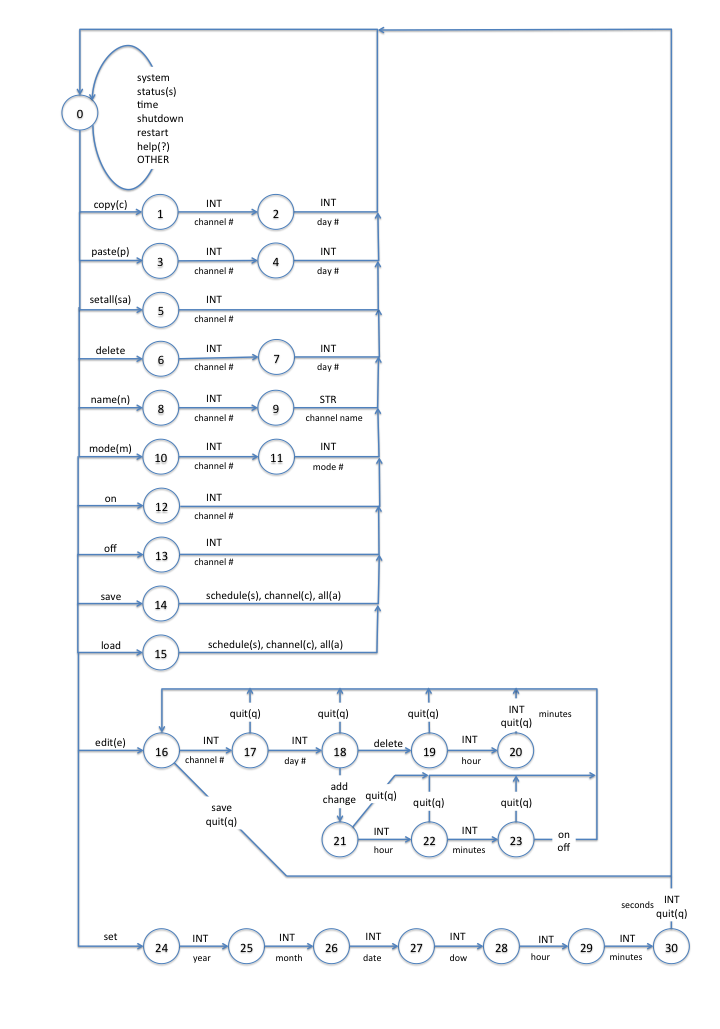
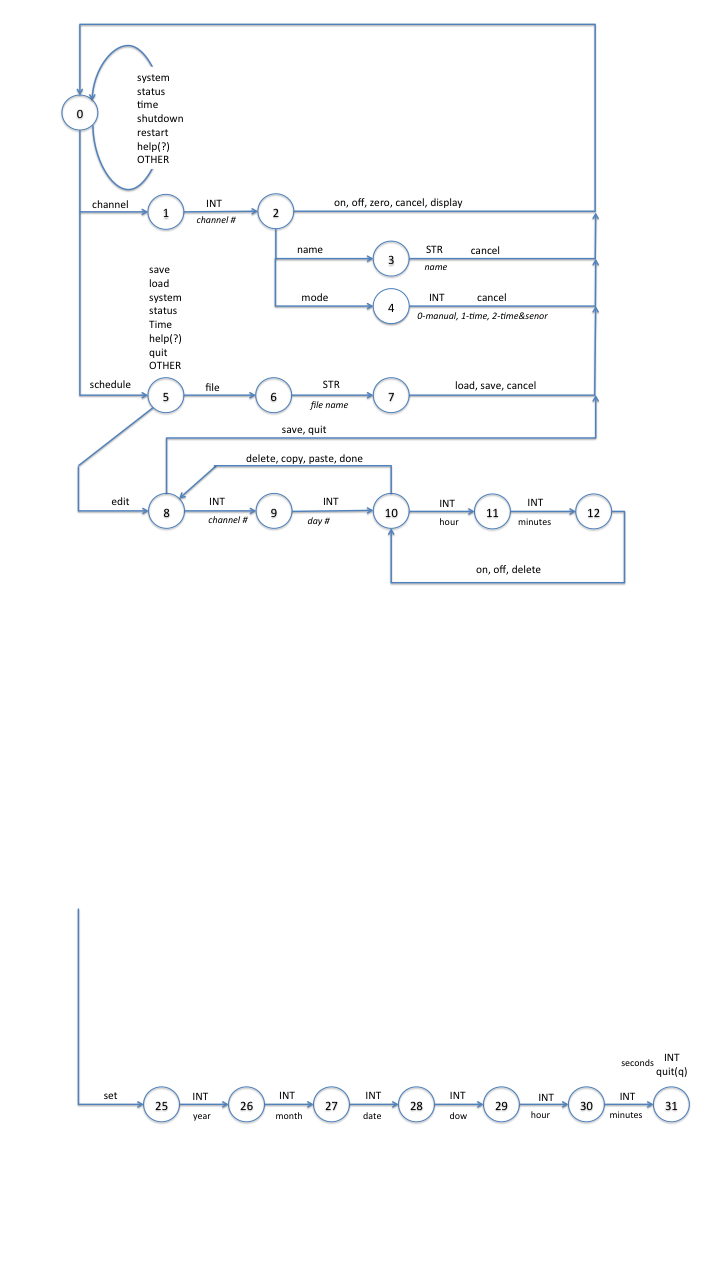
new fsm in README

diff --git a/README.md b/README.md
@@ -22,6 +22,7 @@ C - Propgcc, SimpleIDE, Sublime Text
 * set channel control mode (manual, time, time & sensor)
 * load/save channel control information to SD card  
 * create and maintain schedules for each channel
+* copy and paste schedules between days across channels
 * load/save schedules to SD card
 * display current time and date
 * set date and time
@@ -34,13 +35,11 @@ C - Propgcc, SimpleIDE, Sublime Text
         * copy the schedule for a channel and day to a buffer
     * paste            {channel #}{day #}
         * paste the buffered schedule into a channel and day
-    * pastall          {target channel #} 
-        * load the buffered schedule into all days for the channel
     * delete           {channel #}{day #}
         * delete the schedules for the channel and day
     * file             {file name}{save|load}
         * save or load a named schedule file
-    * edit(e)          {channel #}{day #}
+    * edit          {channel #}{day #}
         * edit the schedule for a channel and day
 ######edit mode commands - edit schedule for the channel and day specified in the edit command
     * delete(d)        {HH}{MM}
